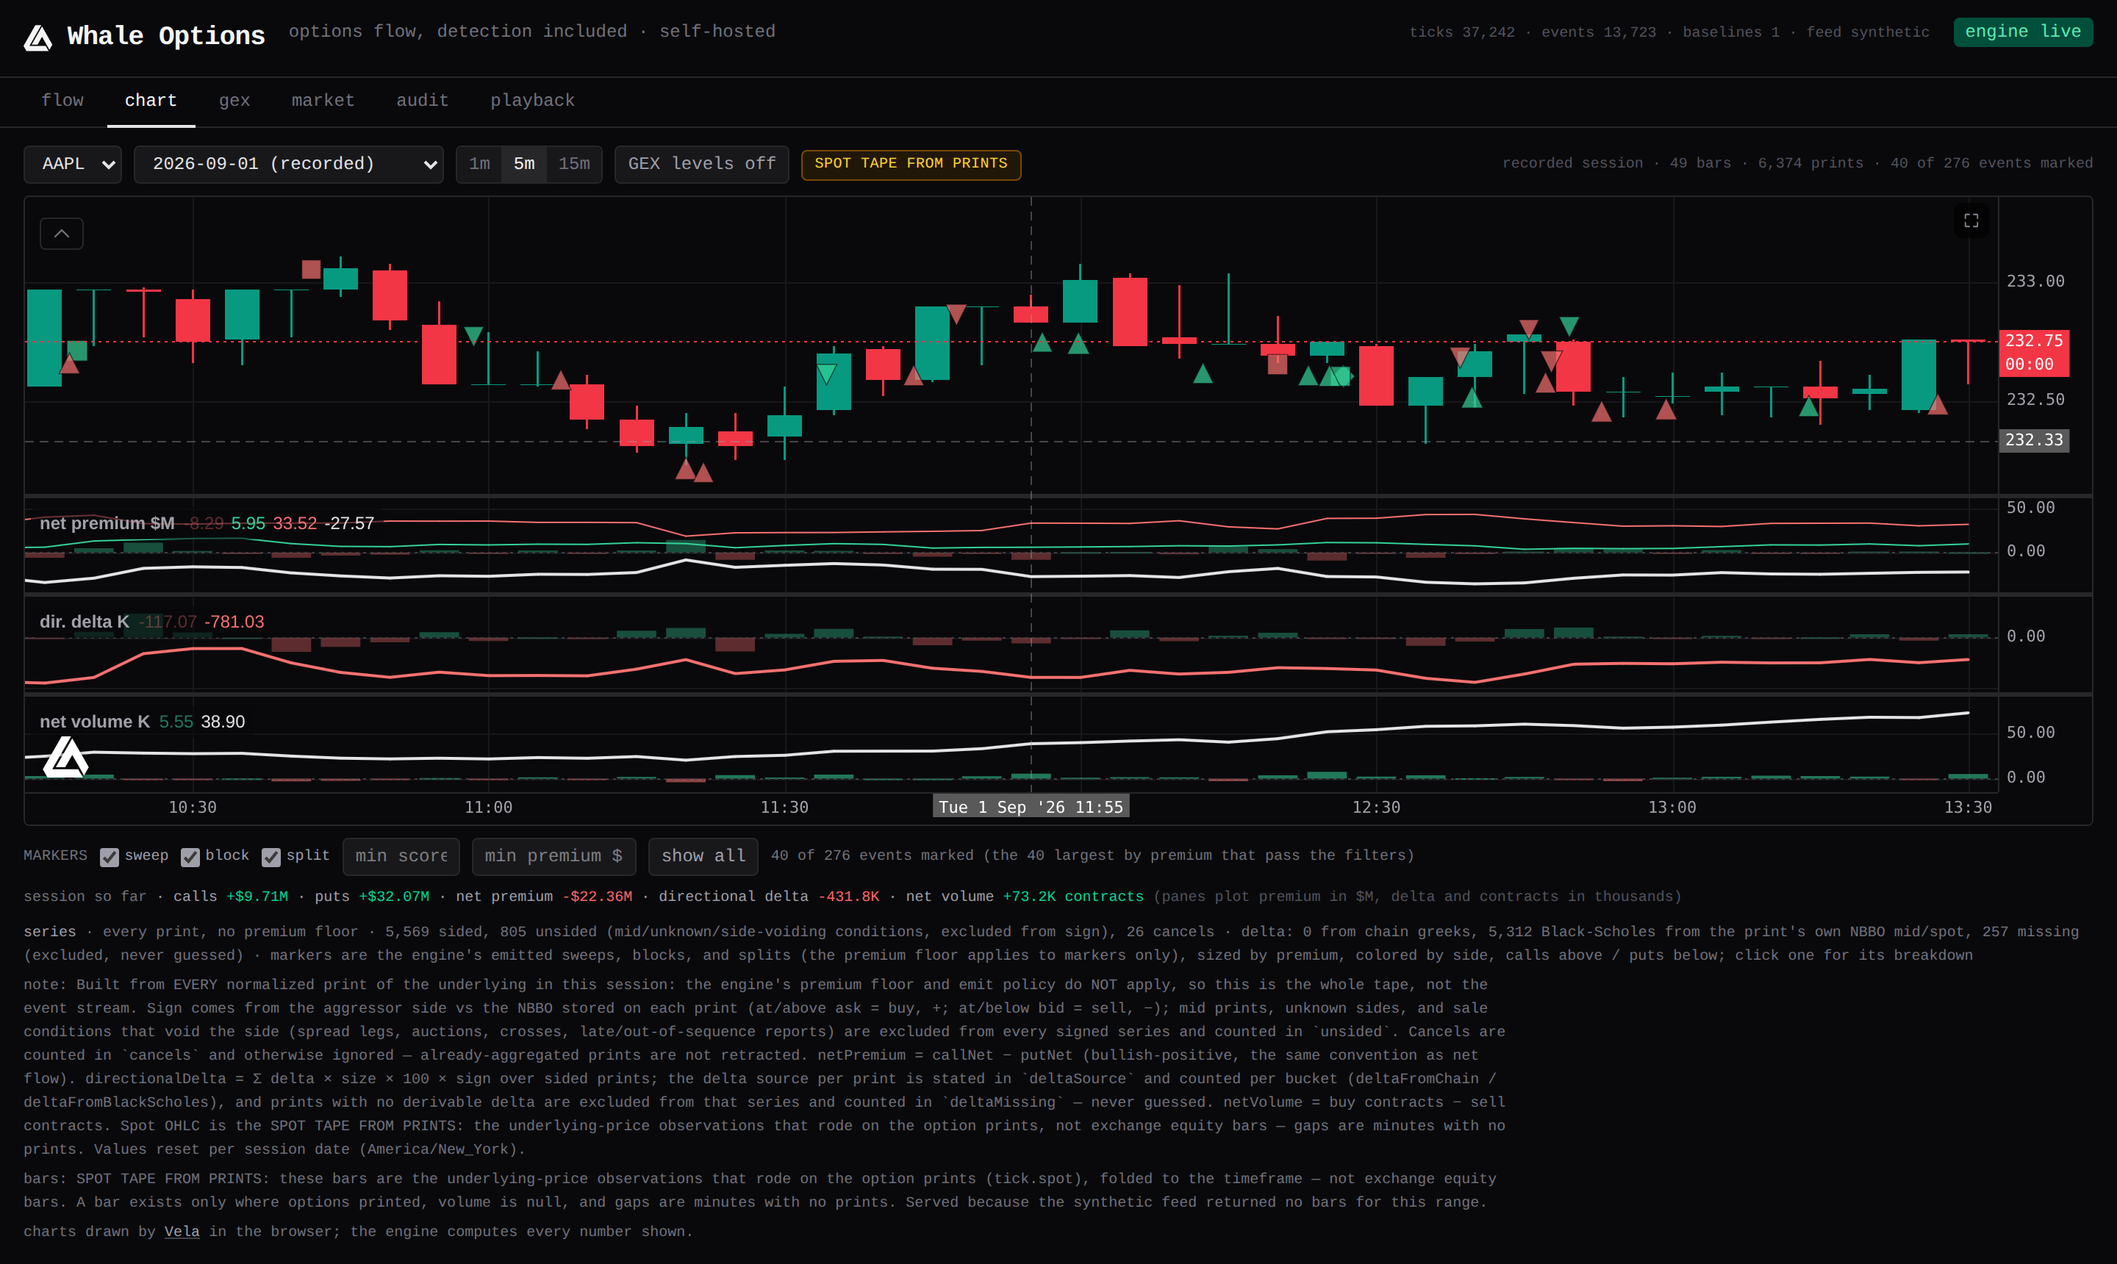
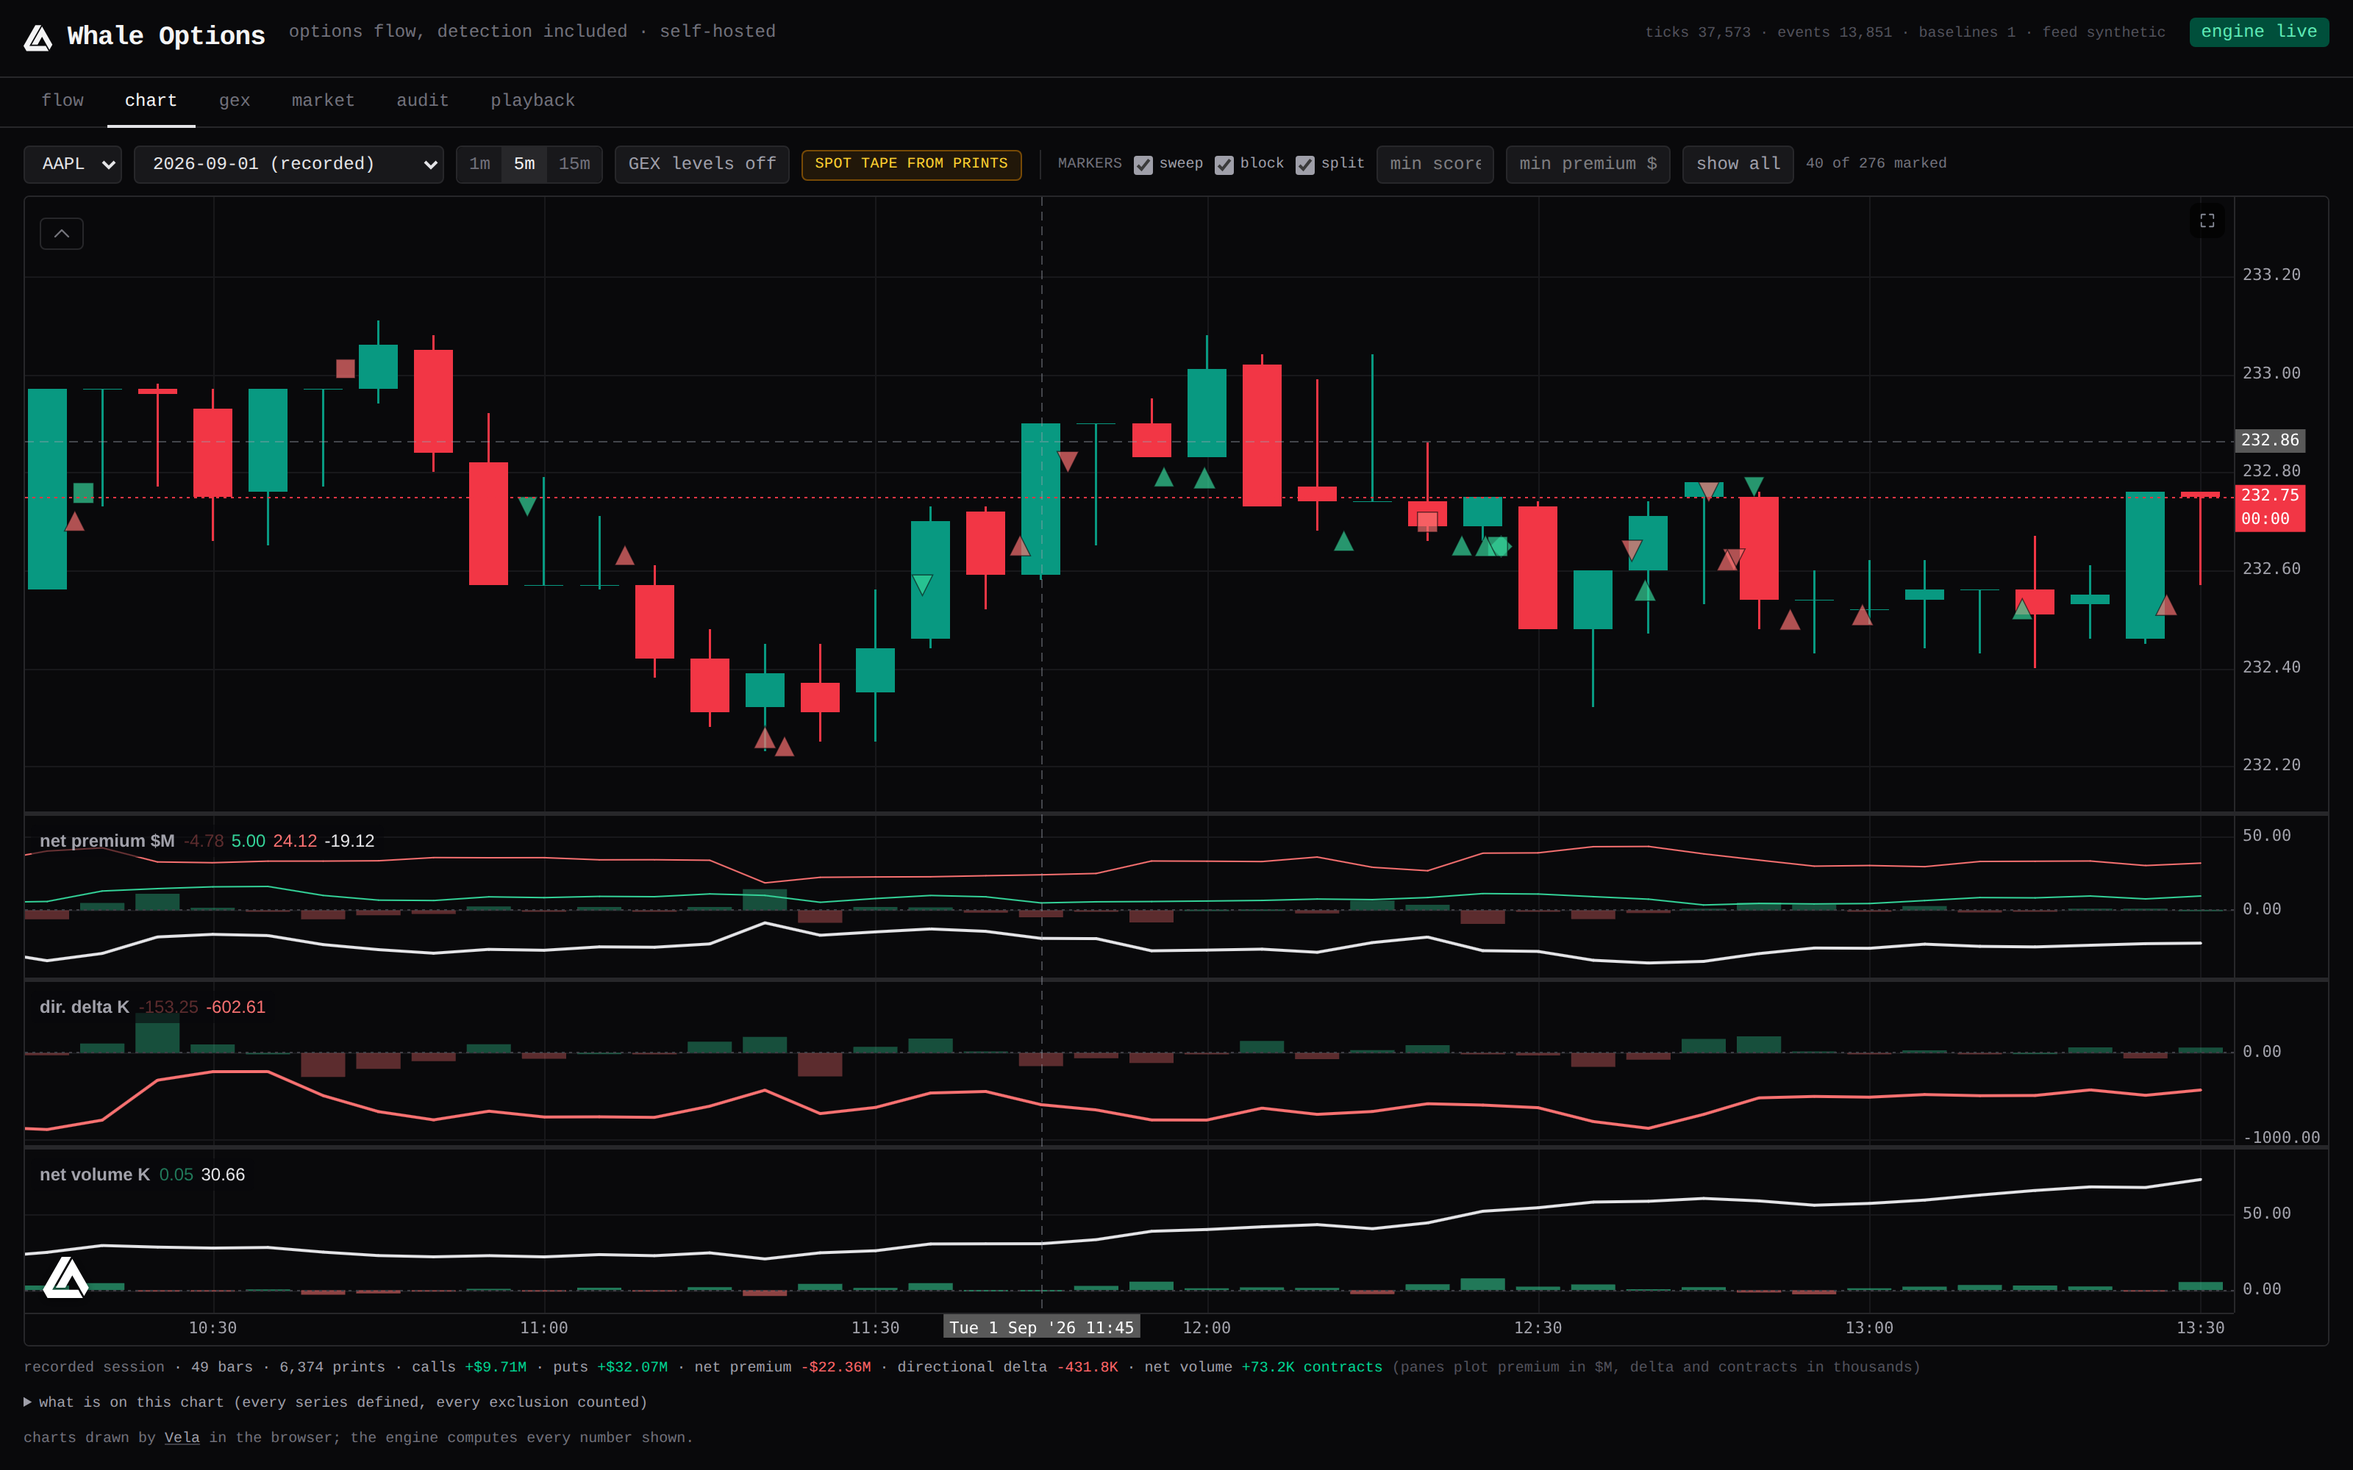
dashboard: give the chart the viewport
The chart host fills the tab (flex-1, min 620px; the tab scrolls when the
window is shorter) and the price pane takes ~55% of it: Vela lays panes out
by relative heightWeight, so the chart re-declares its panes (price 3.7,
studies 1) after mount and after each in-place market swap — users can still
drag the separators. The marker filter joins the toolbar above the chart on
one line; the one-line session totals stay visible under the chart while
the series/note/bars prose collapses behind a closed-by-default "what is on
this chart" disclosure, with the Vela credit line kept visible. Chart
screenshot re-captured at 1600×1000 (2×), 5-minute bars, default marker
filter, disclosure closed, from the running synthetic-feed engine.

Claude-Session: https://claude.ai/code/session_01DQE5MdN51MXNXV15pZ9k5N

diff --git a/packages/dashboard/src/chart-view.tsx b/packages/dashboard/src/chart-view.tsx
@@ -189,7 +189,7 @@ export function ChartView({ status, active }: { status: EngineStatus | null; act
   }
 
   return (
-    <div className="flex h-full min-h-0 flex-col gap-2">
+    <div className="flex h-full min-h-0 flex-col gap-2 overflow-y-auto">
       <div className="flex flex-wrap items-center gap-2">
         <select
           value={underlying ?? ""}
@@ -261,33 +261,13 @@ export function ChartView({ status, active }: { status: EngineStatus | null; act
             bars: {bars.source}
           </span>
         )}
-        <span className="ml-auto text-[10px] text-zinc-600">
-          {live ? "live session" : "recorded session"} · {int(bars.bars.length)} bars ·{" "}
-          {int(counts.prints)} prints · {int(marked.length)} of {int(events.length)} events marked
-        </span>
-      </div>
-
-      <div className="relative min-h-[420px] flex-1 overflow-hidden rounded border border-zinc-800 bg-zinc-950">
-        <div ref={hostRef} className="absolute inset-0" />
-        {(!chartReady || bars.bars.length === 0) && (
-          <div className="pointer-events-none absolute inset-0 flex items-center justify-center text-xs text-zinc-600">
-            {chartError
-              ? `chart failed to load: ${chartError}`
-              : bars.error
-                ? `bars query failed: ${bars.error}`
-                : flow.error
-                  ? `flow query failed: ${flow.error}`
-                  : bars.bars.length === 0 && chartReady
-                    ? "no bars for this session yet: the price pane fills as prints arrive"
-                    : "loading chart…"}
-          </div>
-        )}
-      </div>
-
-      <div className="flex flex-wrap items-center gap-2 text-[10px] text-zinc-500">
-        <span className="uppercase tracking-wide">markers</span>
+        <span className="mx-1 h-5 w-px bg-zinc-800" aria-hidden="true" />
+        <span className="text-[10px] uppercase tracking-wide text-zinc-500">markers</span>
         {MARKER_KINDS.map((kind) => (
-          <label key={kind} className="flex cursor-pointer items-center gap-1 text-zinc-400">
+          <label
+            key={kind}
+            className="flex cursor-pointer items-center gap-1 text-[10px] text-zinc-400"
+          >
             <input
               type="checkbox"
               checked={markerFilter.kinds[kind]}
@@ -319,42 +299,65 @@ export function ChartView({ status, active }: { status: EngineStatus | null; act
           type="button"
           onClick={() => setMarker("top", markerFilter.top === null ? DEFAULT_TOP : null)}
           aria-pressed={markerFilter.top === null}
+          title={
+            markerFilter.top === null
+              ? "every event that passes the filters is marked"
+              : `the ${DEFAULT_TOP} largest by premium that pass the filters are marked`
+          }
           className={`rounded border px-2 py-1 text-xs ${
             markerFilter.top === null
               ? "border-zinc-600 bg-zinc-800 text-zinc-100"
               : "border-zinc-800 bg-zinc-900 text-zinc-400 hover:text-zinc-200"
           }`}
         >
-          {markerFilter.top === null ? `show top ${DEFAULT_TOP} by premium` : "show all"}
+          {markerFilter.top === null ? `top ${DEFAULT_TOP}` : "show all"}
         </button>
-        <span>
-          {int(marked.length)} of {int(events.length)} events marked
-          {markerFilter.top !== null && events.length > markerFilter.top
-            ? ` (the ${markerFilter.top} largest by premium that pass the filters)`
-            : ""}
+        <span className="text-[10px] text-zinc-500">
+          {int(marked.length)} of {int(events.length)} marked
         </span>
       </div>
 
-      {lastPoint && (
-        <p className="text-[10px] leading-4 text-zinc-400">
-          <span className="text-zinc-500">session so far</span> · calls{" "}
-          <Signed v={lastPoint.cumCallNet} /> · puts <Signed v={lastPoint.cumPutNet} /> · net
-          premium <Signed v={lastPoint.cumNetPremium} /> · directional delta{" "}
-          <span
-            className={lastPoint.cumDirectionalDelta >= 0 ? "text-emerald-400" : "text-red-400"}
-          >
-            {signedCompact(lastPoint.cumDirectionalDelta)}
-          </span>{" "}
-          · net volume{" "}
-          <span className={lastPoint.cumNetVolume >= 0 ? "text-emerald-400" : "text-red-400"}>
-            {signedCompact(lastPoint.cumNetVolume)} contracts
-          </span>{" "}
-          <span className="text-zinc-600">
-            (panes plot premium in $M, delta and contracts in thousands)
-          </span>
-        </p>
-      )}
+      <div className="relative min-h-[620px] flex-1 overflow-hidden rounded border border-zinc-800 bg-zinc-950">
+        <div ref={hostRef} className="absolute inset-0" />
+        {(!chartReady || bars.bars.length === 0) && (
+          <div className="pointer-events-none absolute inset-0 flex items-center justify-center text-xs text-zinc-600">
+            {chartError
+              ? `chart failed to load: ${chartError}`
+              : bars.error
+                ? `bars query failed: ${bars.error}`
+                : flow.error
+                  ? `flow query failed: ${flow.error}`
+                  : bars.bars.length === 0 && chartReady
+                    ? "no bars for this session yet: the price pane fills as prints arrive"
+                    : "loading chart…"}
+          </div>
+        )}
+      </div>
 
+      <p className="text-[10px] leading-4 text-zinc-400">
+        <span className="text-zinc-500">{live ? "live session" : "recorded session"}</span> ·{" "}
+        {int(bars.bars.length)} bars · {int(counts.prints)} prints ·{" "}
+        {lastPoint ? (
+          <>
+            calls <Signed v={lastPoint.cumCallNet} /> · puts <Signed v={lastPoint.cumPutNet} /> ·
+            net premium <Signed v={lastPoint.cumNetPremium} /> · directional delta{" "}
+            <span
+              className={lastPoint.cumDirectionalDelta >= 0 ? "text-emerald-400" : "text-red-400"}
+            >
+              {signedCompact(lastPoint.cumDirectionalDelta)}
+            </span>{" "}
+            · net volume{" "}
+            <span className={lastPoint.cumNetVolume >= 0 ? "text-emerald-400" : "text-red-400"}>
+              {signedCompact(lastPoint.cumNetVolume)} contracts
+            </span>{" "}
+            <span className="text-zinc-600">
+              (panes plot premium in $M, delta and contracts in thousands)
+            </span>
+          </>
+        ) : (
+          <span className="text-zinc-600">no prints yet this session</span>
+        )}
+      </p>
       {gexOn && (
         <p className="rounded border border-amber-500/20 bg-amber-500/5 px-2 py-1 text-[10px] leading-4 text-amber-200/80">
           <span className="mr-1 font-bold uppercase text-amber-400/90">GEX levels</span>
@@ -366,45 +369,37 @@ export function ChartView({ status, active }: { status: EngineStatus | null; act
         </p>
       )}
 
-      <div className="space-y-1 text-[10px] leading-4 text-zinc-500">
-        <p>
-          <span className="text-zinc-400">series</span> · every print, no premium floor ·{" "}
-          {int(counts.sided)} sided, {int(counts.unsided)} unsided (mid/unknown/side-voiding
-          conditions, excluded from sign), {int(counts.cancels)} cancels · delta:{" "}
-          {int(counts.deltaFromChain)} from chain greeks, {int(counts.deltaFromBlackScholes)}{" "}
-          Black-Scholes from the print's own NBBO mid/spot, {int(counts.deltaMissing)} missing
-          (excluded, never guessed) · markers are the engine's emitted sweeps, blocks, and splits
-          (the premium floor applies to markers only), sized by premium, colored by side, calls
-          above / puts below; click one for its breakdown
-        </p>
-        {flow.note && <p className="max-w-5xl">note: {flow.note}</p>}
-        {bars.note && <p className="max-w-5xl">bars: {bars.note}</p>}
-        {gexOn && gex.ladder && (
-          <p className="max-w-5xl text-amber-200/70">
-            <span className="mr-1 font-bold uppercase text-amber-400/90">assumption</span>
-            GEX levels: convention "{gex.ladder.convention}": {gex.ladder.conventionNote} ·{" "}
-            {gex.ladder.pricing.note}
-            {gex.ladder.pricing.repricedTs !== null
-              ? ` · last re-priced ${etDateTime(gex.ladder.pricing.repricedTs)} ET`
-              : ""}
+      <details className="text-[10px] leading-4 text-zinc-500">
+        <summary className="cursor-pointer select-none text-zinc-400 hover:text-zinc-200">
+          what is on this chart (every series defined, every exclusion counted)
+        </summary>
+        <div className="mt-1 space-y-1">
+          <p>
+            <span className="text-zinc-400">series</span> · every print, no premium floor ·{" "}
+            {int(counts.sided)} sided, {int(counts.unsided)} unsided (mid/unknown/side-voiding
+            conditions, excluded from sign), {int(counts.cancels)} cancels · delta:{" "}
+            {int(counts.deltaFromChain)} from chain greeks, {int(counts.deltaFromBlackScholes)}{" "}
+            Black-Scholes from the print's own NBBO mid/spot, {int(counts.deltaMissing)} missing
+            (excluded, never guessed) · markers are the engine's emitted sweeps, blocks, and splits
+            (the premium floor applies to markers only), sized by premium, colored by side, calls
+            above / puts below; click one for its breakdown
           </p>
-        )}
-        {gexOn && gex.error && (
-          <p className="text-amber-400">GEX levels unavailable: {gex.error}</p>
-        )}
-        <p>
-          charts drawn by{" "}
-          <a
-            href="https://github.com/LuxAlgo/Vela"
-            target="_blank"
-            rel="noreferrer"
-            className="text-zinc-400 underline decoration-zinc-700 hover:text-zinc-200"
-          >
-            Vela
-          </a>{" "}
-          in the browser; the engine computes every number shown.
-        </p>
-      </div>
+          {flow.note && <p className="max-w-5xl">note: {flow.note}</p>}
+          {bars.note && <p className="max-w-5xl">bars: {bars.note}</p>}
+        </div>
+      </details>
+      <p className="text-[10px] leading-4 text-zinc-500">
+        charts drawn by{" "}
+        <a
+          href="https://github.com/LuxAlgo/Vela"
+          target="_blank"
+          rel="noreferrer"
+          className="text-zinc-400 underline decoration-zinc-700 hover:text-zinc-200"
+        >
+          Vela
+        </a>{" "}
+        in the browser; the engine computes every number shown.
+      </p>
 
       {selected && <EventDrawer seed={selected} onClose={() => setSelected(null)} />}
     </div>

diff --git a/packages/dashboard/src/vela-chart.ts b/packages/dashboard/src/vela-chart.ts
@@ -62,6 +62,10 @@ export const VOLUME_UNIT = 1_000;
 
 const MARKERS_LAYER = "whale-flow-markers";
 const GEX_LAYER = "whale-gex-levels";
+/** Pane height weights: the price pane takes ~55% of the chart, the three studies share the rest. */
+const PRICE_PANE_WEIGHT = 3.7;
+const STUDY_PANE_WEIGHT = 1;
+
 const PANE_NET_PREMIUM = "whale-net-premium";
 const PANE_DELTA = "whale-directional-delta";
 const PANE_NET_VOLUME = "whale-net-volume";
@@ -603,6 +607,7 @@ export function createFlowChart(host: HTMLElement, opts: FlowChartOptions): Flow
   let markers: FlowEvent[] = [];
   let gex: GexLadder | null = null;
   let disposed = false;
+  let sizePanes: (() => void) | null = null;
 
   const onClick = (e: MouseEvent) => {
     const hit = markerAtClient(e.clientX, e.clientY);
@@ -633,12 +638,36 @@ export function createFlowChart(host: HTMLElement, opts: FlowChartOptions): Flow
       { renderer },
     );
     chart.renderer.set("timezone", "America/New_York");
-    chart.addNativeIndicator(PANE_NET_PREMIUM);
-    chart.addNativeIndicator(PANE_DELTA);
-    chart.addNativeIndicator(PANE_NET_VOLUME);
+    const studies = [PANE_NET_PREMIUM, PANE_DELTA, PANE_NET_VOLUME].map((type) =>
+      chart!.addNativeIndicator(type),
+    );
+    // Pane proportions: Vela lays panes out by relative heightWeight (price 3,
+    // studies 1 by default = 50/50 with three studies). Re-declare the panes
+    // with the weights we want; the orchestrator names a native's pane
+    // `pane-<handle id>`. Users can still drag the separators afterwards.
+    sizePanes = () => {
+      if (!renderer || disposed) return;
+      renderer.ensurePane({
+        id: "price",
+        kind: "price",
+        order: 0,
+        heightWeight: PRICE_PANE_WEIGHT,
+      });
+      studies.forEach((handle, i) => {
+        renderer?.ensurePane({
+          id: `pane-${handle.id}`,
+          kind: "study",
+          order: i + 1,
+          heightWeight: STUDY_PANE_WEIGHT,
+        });
+      });
+    };
+    sizePanes();
     pushLayers();
     void chart.ready().then(() => {
-      if (!disposed) pushLayers();
+      if (disposed) return;
+      sizePanes?.();
+      pushLayers();
     });
   };
 
@@ -656,7 +685,9 @@ export function createFlowChart(host: HTMLElement, opts: FlowChartOptions): Flow
       // Swap bars in place: panes, layers, and subscriptions survive; the
       // viewport is kept unless the timeframe changed (then Vela reframes).
       const visible = tfChanged ? undefined : (chart.getVisibleRange() ?? undefined);
-      void chart.setMarket({ data, timeframe, ...(visible ? { visibleRange: visible } : {}) });
+      void chart
+        .setMarket({ data, timeframe, ...(visible ? { visibleRange: visible } : {}) })
+        .then(() => sizePanes?.());
     },
     setFlow(points) {
       paneState.points = points;

diff --git a/README.md b/README.md
@@ -215,7 +215,7 @@ The dashboard's **chart** tab puts the flow on a price chart, drawn in the brows
 
 <img src="docs/assets/chart-flow.png" alt="Whale Options dashboard chart tab: underlying candles with sweep, block, and split markers sized by premium and colored by side, above three panes built from every print — net premium (calls, puts, net), directional delta, and net volume — with the GEX levels legend and the series notes" width="100%">
 
-<div align="center"><sub>A recorded session on the chart tab at 5-minute bars: candles from the spot tape (the badge says so), the 40 largest sweeps/blocks/splits by premium marked at their time and spot (the marker filter defaults to that; "show all" paints every event), and the three per-print panes in $M / thousands, notes verbatim underneath. Seeded synthetic feed.</sub></div>
+<div align="center"><sub>A recorded session on the chart tab at 5-minute bars: candles from the spot tape (the badge says so), the 40 largest sweeps/blocks/splits by premium marked at their time and spot (the marker filter defaults to that; "show all" paints every event), and the three per-print panes in $M / thousands; the session totals sit under the chart and the full series definitions and exclusion counts open from the "what is on this chart" disclosure. Seeded synthetic feed.</sub></div>
 
 What is on it, and what each series is:
 
